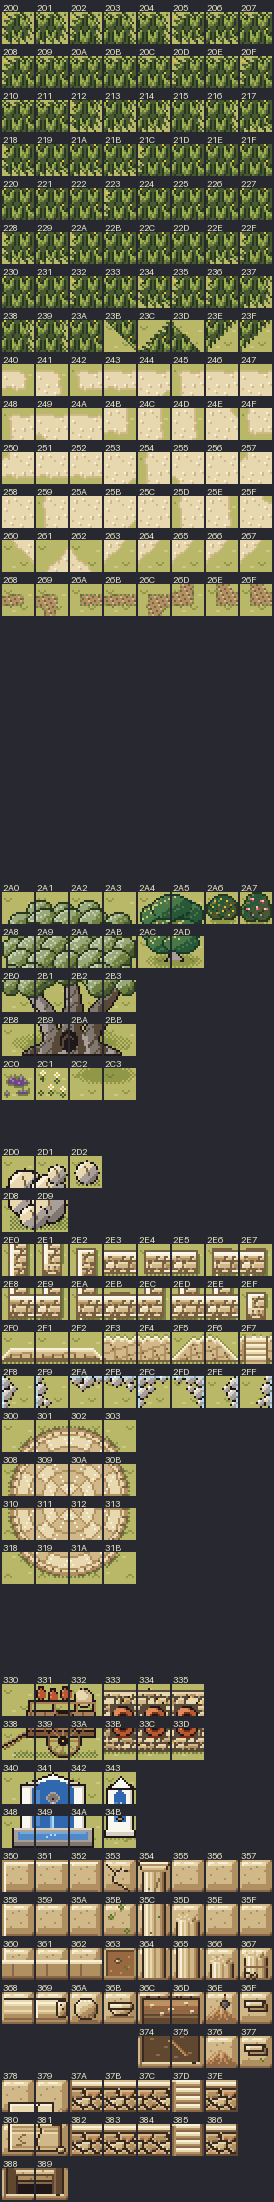
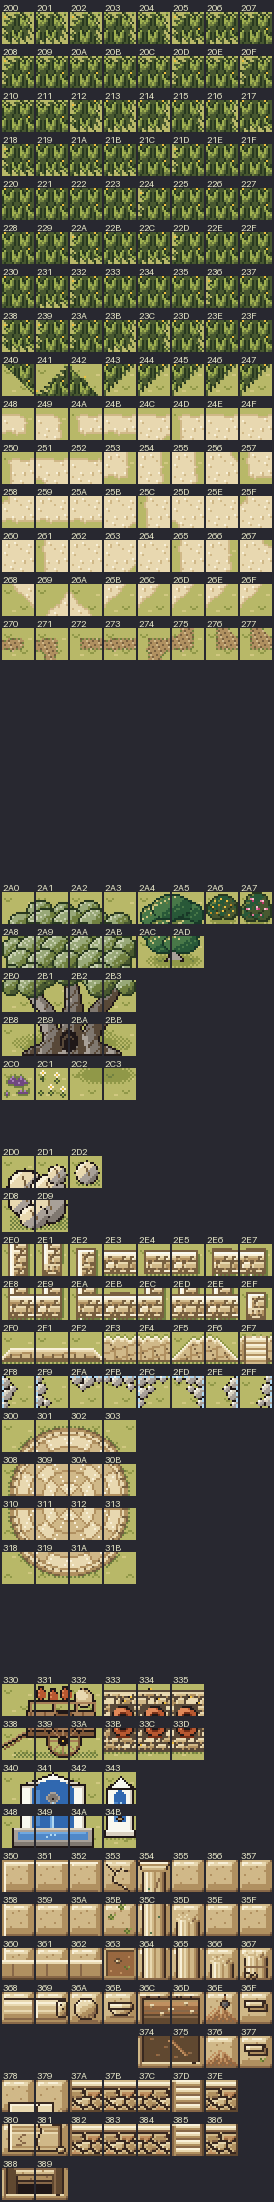
fix(map): keep Route 1's seam rows aethos-only and give its bands ragged edges
The Elaia opening test showed Route 1's band of grass as garbage from
Elaia's side: the screen shows four and a half rows past the player and a
step scrolls in one more before the map switches, so six rows at each seam
now hold aethos pieces only (plain barley where a band reaches them). The
cove's shore grass gets ragged edges, the meadow a few more things to look
at, and the wayside shrine moves onto the goat path, out of Akti's view.
Review screens now frame the player half a row down, as the game does.

diff --git a/tools/ichor/maps/route1.py b/tools/ichor/maps/route1.py
@@ -170,14 +170,14 @@ class Grid:
         self.protect = set()
 
     # --- composition passes ------------------------------------------------
-    SEAM_SWAP = {",": ".", "h": ".", "y": ".", "b": "B", "n": "B", "r": "B", "q": "~"}
+    SEAM_SWAP = {"h": ".", "y": ".", "b": "B", "n": "B", "r": "B", "q": "~"}
 
     def seam_prep(self):
         """In the seam rows, swap what only Agros can draw for aethos's own:
-        tall grass and herbs become grass, shrubs and rocks become boulders, the
-        rocky shore becomes open sea. Woods there fill with olives, stone pines,
-        cypresses and boulders only, and the road takes aethos's square-edged
-        path patch (soft_ground)."""
+        herbs become grass, shrubs and rocks become boulders, the rocky shore
+        becomes open sea. Woods there fill with olives, stone pines, cypresses
+        and boulders only; tall grass takes aethos's plain barley and the road
+        aethos's square-edged path patch (soft_ground)."""
         for y in self.seam_rows:
             for x in range(self.w):
                 c = self.chars[y][x]
@@ -436,6 +436,8 @@ class Grid:
         self.find_halves()
         out = {"tall": set(), "path": set(), "track": set()}
         for y in range(self.h):
+            if y in self.seam_rows:
+                continue                    # aethos's own pieces there (soft_ground)
             for x in range(self.w):
                 c, h = self.chars[y][x], self.half.get((x, y))
                 if c == "," or (h and h[0] == "tall"):
@@ -576,7 +578,7 @@ class Grid:
                 if not kind:
                     continue
                 if y in self.seam_rows:
-                    self.put(x, y, walk(self.aethos_path(x, y)))
+                    self.put(x, y, walk(TALL if kind == "tall" else self.aethos_path(x, y)))
                     continue
                 if kind == "track":
                     key = self.track_key(x, y)
@@ -740,9 +742,9 @@ class Grid:
 #   the fork: a herm, the spur east to Kronion Hill past Polyeidos
 #   the flock in the wall gap, Agis just past it
 #   shore grass across the cove (band 3, 3 deep); a jar on the beach
-#   the climb: steps up to the headland, a shrine, the north herm; a goat
-#     path of two lips behind the hedge makes the trip back quick
-# Rows 0-4 and 59-63 are seen from Akti and Elaia, which draw them with their
+#   the climb: steps up to the headland and the north herm; a goat path of
+#     two lips behind the hedge, past a wayside shrine, makes the trip back quick
+# Rows 0-5 and 58-63 are seen from Akti and Elaia, which draw them with their
 # own secondary tileset, so they hold aethos pieces only (Grid.seam_prep).
 # ---------------------------------------------------------------------------
 ROUTE1 = [
@@ -753,14 +755,14 @@ ROUTE1 = [
     "%%%%%%....====.....%%%%%%%%%%%",  # 2  Akti's outskirts on the headland
     "%%%%%.*...====..H...%%%%%%%%%%",  # 3  north herm
     "~ddd...*..====......%%%%%%%%%%",  # 4
-    "~~ddd.....====......#.%%%%%%%%",  # 5  a roadside shrine between cypresses
-    "~~~dd.....====......#.%%%%%%%%",  # 6
+    "~~ddd.....====........%%%%%%%%",  # 5  cypresses on the headland
+    "~~~dd.....====........%%%%%%%%",  # 6
     "~~~~TTTTTTssssTT___TTT%%%%%%%%",  # 7  the climb: steps up to the headland; a lip down the goat path
-    "~~~~dd....====.%...%%%%%%%%%%%",  # 8  the goat path runs down behind the hedge
-    "~~~~,,,,,,,,,,,%...%%%%%%%%%%%",  # 9  shore grass, from the sea to the hedge (band 3)
-    "~~~~~,,,,,,,,,,%...%%%%%%%%%%%",  # 10
+    "~~~~dd,,..====.%...%%%%%%%%%%%",  # 8  the goat path runs down behind the hedge
+    "~~~~,,,,,,,,,,,%..#%%%%%%%%%%%",  # 9  shore grass, from the sea to the hedge (band 3);
+    "~~~~~,,,,,,,,,,%..#%%%%%%%%%%%",  # 10 a wayside shrine on the goat path
     "~~~~,,,,,,,,,,,%.y.%%%%%%%%%%%",  # 11
-    "~~~~dd....====.%___%%%%%%%%%%%",  # 12 the goat path's last lip
+    "~~~~dd.,,,====.%___%%%%%%%%%%%",  # 12 the goat path's last lip
     "~~~ddd.....===.....%%%%%%%%%%%",  # 13 Agis watches the gap; a jar on the cove beach
     "%%WWBWWWWWW===WWWWWWWB%%%%%%%%",  # 14 the flock's wall gap
     "%%.,,,.....===.....###%%%%%%%%",  # 15 Amaryllis; the fallen column
@@ -790,14 +792,14 @@ ROUTE1 = [
     "%%......%,,,,,,%%%%%%%%%%%%%%%",  # 39
     "%%..,...%%,,,,,%%%%%%%%%%%%%%%",  # 40
     "%%______%%===..............%%%",  # 41 the west walk's lip down to the meadow
-    "%%..,,,...===....,,,.........%",  # 42 the shepherd's meadow
+    "%%..,,,...===....,,,..h......%",  # 42 the shepherd's meadow
     "%%.,,,,...===...,,,,.....,...%",  # 43
-    "%%..,,,..===......####.......%",  # 44 the threshing floor
+    "%%..,,,..===......####..*....%",  # 44 the threshing floor
     "%%.,,,...===..----####.......%",  # 45
     "%%..,....===---...####.....*.%",  # 46
-    "%%.......===......####.......%",  # 47
+    "%%.......===......####B......%",  # 47
     "%%..*....===..h............,.%",  # 48
-    "%%.......===........,,,......%",  # 49 Tityros at the wall gap
+    "%%.......===.*......,,,....h.%",  # 49 Tityros at the wall gap
     "%%WWWWWWW===WWWWWWWW_______W%%",  # 50 the meadow wall; a lip back down
     "%%.,,,,..===.................%",  # 51
     "%%WWWWW..===...........B.....%",  # 52 youth on the wall
@@ -827,9 +829,10 @@ ROUTE1_OLIVES = [
 # An olive's crown needs grass, another olive or a cypress foot above it (see
 # settle_crowns), so none sits right under the road, a wall, a lip or a pine.
 ROUTE1_CYPRESSES = [(7, 2), (19, 5), (21, 5), (21, 20), (10, 36), (15, 42), (7, 54)]
-# Rows seen from Akti (0-4: five rows below a player on Akti's edge) and from
-# Elaia (59-63: four above a player on Elaia's edge, plus one for a camera pan).
-ROUTE1_SEAM_ROWS = list(range(0, 5)) + list(range(59, 64))
+# Rows a player still in Akti or Elaia can see: the screen shows four and a
+# half rows either side of the player's tile, and a step scrolls one more in
+# before the map switches. So six rows each side stay aethos-only.
+ROUTE1_SEAM_ROWS = list(range(0, 6)) + list(range(58, 64))
 # The forced bands' rows, kept out of roughen() so each keeps its full depth.
 ROUTE1_BAND_ROWS = [9, 10, 11, 38, 39, 40, 57, 58]
 ROUTE1_PINES = [(21, 55), (26, 55)]
@@ -879,7 +882,7 @@ def build_route1_pieces(g, cat):
     g.place(cat, "big_olive", 3, 22)                  # the ancient olive
     g.place(cat, "bee_wall", 22, 24)                  # Komatas's hives
     g.place(cat, "spring", 2, 32)                     # the spring in the grove
-    g.place(cat, "shrine", 20, 5)                     # the shrine on the headland, by the goat path
+    g.place(cat, "shrine", 18, 9)                     # the wayside shrine on the goat path
     g.place(cat, "alonia", 18, 44)                    # the threshing floor
     g.place(cat, "cart", 18, 53)                      # the carter's cart
 
@@ -1282,7 +1285,8 @@ def render(g, name, events, border, views, rows=None):
             d.text((2, i * cell + cell // 2 - 6), str(i), fill=(255, 255, 255, 255), font=font, stroke_width=2, stroke_fill=(0, 0, 0, 255))
     Image.alpha_composite(rev, over).convert("RGB").save(RENDER / f"{name}_review.png")
 
-    # Screens: the GBA shows 15x10 tiles with the player at column 7, row 4.
+    # Screens: the GBA shows 15x10 tiles, the player's tile at column 7 and
+    # half a row down from row 4 (pixels 72-87), as in-game shots show.
     pad = 8
     H = blocks.shape[0]
     W, HH = g.w + 2 * pad, H + 2 * pad
@@ -1294,7 +1298,7 @@ def render(g, name, events, border, views, rows=None):
     full = rm.render_blocks(r, big.ravel(), W)
     shots = []
     for (px, py) in views:
-        x0, y0 = (px - 7 + pad) * 16, (py - 4 + pad) * 16
+        x0, y0 = (px - 7 + pad) * 16, (py - 5 + pad) * 16 + 8
         shots.append(full.crop((x0, y0, x0 + 240, y0 + 160)).resize((480, 320), Image.NEAREST))
     cols = 3
     nrows = (len(shots) + cols - 1) // cols

diff --git a/tools/ichor/art/agros_catalog.py b/tools/ichor/art/agros_catalog.py
@@ -111,7 +111,7 @@ palette:
 
 **Scripted swaps.** `agros_build.py` writes the ids scripts swap in to the `gTileset_Agros` block at the end of `include/constants/metatile_labels.h` (today `METATILE_Agros_PitStair_Left` and `_Right`, Kronion Hill's dark stair), so they never go stale.
 
-**Seams.** A map connected to another is drawn with the tilesets of the map the player stands on. So the rows of Route 1 a player in Akti or Elaia can see (0–4 and 59–63) use aethos pieces only; `route1.py` swaps in aethos's own and fails the build on any Agros piece there. A future map on Agros should do the same at its seams.
+**Seams.** A map connected to another is drawn with the tilesets of the map the player stands on. So the rows of Route 1 a player in Akti or Elaia can see (0–5 and 58–63) use aethos pieces only; `route1.py` swaps in aethos's own and fails the build on any Agros piece there. A future map on Agros should do the same at its seams.
 """
 
 

diff --git a/design/phase1/TILES_agros.md b/design/phase1/TILES_agros.md
@@ -81,7 +81,7 @@ palette:
 
 **Scripted swaps.** `agros_build.py` writes the ids scripts swap in to the `gTileset_Agros` block at the end of `include/constants/metatile_labels.h` (today `METATILE_Agros_PitStair_Left` and `_Right`, Kronion Hill's dark stair), so they never go stale.
 
-**Seams.** A map connected to another is drawn with the tilesets of the map the player stands on. So the rows of Route 1 a player in Akti or Elaia can see (0–4 and 59–63) use aethos pieces only; `route1.py` swaps in aethos's own and fails the build on any Agros piece there. A future map on Agros should do the same at its seams.
+**Seams.** A map connected to another is drawn with the tilesets of the map the player stands on. So the rows of Route 1 a player in Akti or Elaia can see (0–5 and 58–63) use aethos pieces only; `route1.py` swaps in aethos's own and fails the build on any Agros piece there. A future map on Agros should do the same at its seams.
 
 ## Soft ground
 
@@ -89,7 +89,7 @@ Tall grass, the road and goat tracks, with edges that follow the land instead of
 
 ### Tall grass with soft edges
 
-`tall`, 8 wide by 8 tall. Barley meadow edges. Each piece is named by its shape key (see agros_ground.py) and keeps MB_TALL_GRASS, so encounters follow the cells while the outline stays soft.
+`tall`, 8 wide by 9 tall. Barley meadow edges. Each piece is named by its shape key (see agros_ground.py) and keeps MB_TALL_GRASS, so encounters follow the cells while the outline stays soft.
 
 | Shape key | Id | Walk |
 |---|---|---|
@@ -121,41 +121,46 @@ Tall grass, the road and goat tracks, with edges that follow the land instead of
 | `1|11100010` | 0x219 | G |
 | `1|11100011` | 0x21A | G |
 | `1|111000a1` | 0x21B | G |
-| `1|11111000` | 0x21C | G |
-| `1|11111011` | 0x21D | G |
-| `1|111110a1` | 0x21E | G |
-| `1|11111110` | 0x21F | G |
-| `1|1111111b` | 0x220 | G |
-| `1|111111b0` | 0x221 | G |
-| `1|11111a11` | 0x222 | G |
-| `1|1111a000` | 0x223 | G |
-| `1|1111a011` | 0x224 | G |
-| `1|111d10a1` | 0x225 | G |
-| `1|111d1111` | 0x226 | G |
-| `1|111d1a1b` | 0x227 | G |
-| `1|11d00000` | 0x228 | G |
-| `1|11d00011` | 0x229 | G |
-| `1|11d01000` | 0x22A | G |
-| `1|11d010a1` | 0x22B | G |
-| `1|11d01111` | 0x22C | G |
-| `1|11d0d111` | 0x22D | G |
-| `1|1c10001b` | 0x22E | G |
-| `1|1c101000` | 0x22F | G |
-| `1|1c101111` | 0x230 | G |
-| `1|1c111111` | 0x231 | G |
-| `1|1c1d1000` | 0x232 | G |
-| `1|1c1d1111` | 0x233 | G |
-| `1|b1100000` | 0x234 | G |
-| `1|b1111000` | 0x235 | G |
-| `1|b111a000` | 0x236 | G |
-| `1|c0000011` | 0x237 | G |
-| `1|c0001111` | 0x238 | G |
-| `1|c000d111` | 0x239 | G |
-| `1|c0c11111` | 0x23A | G |
-| `a|11100000` | 0x23B | G |
-| `b|00111000` | 0x23C | G |
-| `c|00001110` | 0x23D | G |
-| `d|10000011` | 0x23E | G |
+| `1|1110d111` | 0x21C | G |
+| `1|11111000` | 0x21D | G |
+| `1|11111011` | 0x21E | G |
+| `1|111110a1` | 0x21F | G |
+| `1|11111110` | 0x220 | G |
+| `1|1111111b` | 0x221 | G |
+| `1|111111b0` | 0x222 | G |
+| `1|11111a11` | 0x223 | G |
+| `1|1111a000` | 0x224 | G |
+| `1|1111a011` | 0x225 | G |
+| `1|111d10a1` | 0x226 | G |
+| `1|111d1111` | 0x227 | G |
+| `1|111d1a11` | 0x228 | G |
+| `1|111d1a1b` | 0x229 | G |
+| `1|11d00000` | 0x22A | G |
+| `1|11d00011` | 0x22B | G |
+| `1|11d000a1` | 0x22C | G |
+| `1|11d01000` | 0x22D | G |
+| `1|11d010a1` | 0x22E | G |
+| `1|11d01111` | 0x22F | G |
+| `1|11d0d111` | 0x230 | G |
+| `1|1c10001b` | 0x231 | G |
+| `1|1c101000` | 0x232 | G |
+| `1|1c101111` | 0x233 | G |
+| `1|1c111110` | 0x234 | G |
+| `1|1c111111` | 0x235 | G |
+| `1|1c1d1000` | 0x236 | G |
+| `1|1c1d1111` | 0x237 | G |
+| `1|b1100000` | 0x238 | G |
+| `1|b1111000` | 0x239 | G |
+| `1|b111a000` | 0x23A | G |
+| `1|c0000011` | 0x23B | G |
+| `1|c0001111` | 0x23C | G |
+| `1|c000d111` | 0x23D | G |
+| `1|c0111111` | 0x23E | G |
+| `1|c0c11111` | 0x23F | G |
+| `a|11100000` | 0x240 | G |
+| `b|00111000` | 0x241 | G |
+| `c|00001110` | 0x242 | G |
+| `d|10000011` | 0x243 | G |
 
 ### The limestone road, curving
 
@@ -163,42 +168,42 @@ Tall grass, the road and goat tracks, with edges that follow the land instead of
 
 | Shape key | Id | Walk |
 |---|---|---|
-| `1|00000010` | 0x240 | . |
-| `1|00001110` | 0x241 | . |
-| `1|00100000` | 0x242 | . |
-| `1|00100010` | 0x243 | . |
-| `1|00101110` | 0x244 | . |
-| `1|00111000` | 0x245 | . |
-| `1|00111110` | 0x246 | . |
-| `1|00111a10` | 0x247 | . |
-| `1|0011a000` | 0x248 | . |
-| `1|0011a010` | 0x249 | . |
-| `1|00c11110` | 0x24A | . |
-| `1|10000011` | 0x24B | . |
-| `1|10001111` | 0x24C | . |
-| `1|1000d111` | 0x24D | . |
-| `1|10c11111` | 0x24E | . |
-| `1|11100000` | 0x24F | . |
-| `1|11100010` | 0x250 | . |
-| `1|11100011` | 0x251 | . |
-| `1|111000a1` | 0x252 | . |
-| `1|11101111` | 0x253 | . |
-| `1|11111000` | 0x254 | . |
-| `1|111110a1` | 0x255 | . |
-| `1|1111111b` | 0x256 | . |
-| `1|111111b0` | 0x257 | . |
-| `1|11111a11` | 0x258 | . |
-| `1|1111a000` | 0x259 | . |
-| `1|111d1111` | 0x25A | . |
-| `1|11d01111` | 0x25B | . |
-| `1|1c111111` | 0x25C | . |
-| `1|b1111000` | 0x25D | . |
-| `1|c0001111` | 0x25E | . |
-| `1|c0111111` | 0x25F | . |
-| `a|11100000` | 0x260 | . |
-| `b|00111000` | 0x261 | . |
-| `c|00001110` | 0x262 | . |
-| `d|10000011` | 0x263 | . |
+| `1|00000010` | 0x248 | . |
+| `1|00001110` | 0x249 | . |
+| `1|00100000` | 0x24A | . |
+| `1|00100010` | 0x24B | . |
+| `1|00101110` | 0x24C | . |
+| `1|00111000` | 0x24D | . |
+| `1|00111110` | 0x24E | . |
+| `1|00111a10` | 0x24F | . |
+| `1|0011a000` | 0x250 | . |
+| `1|0011a010` | 0x251 | . |
+| `1|00c11110` | 0x252 | . |
+| `1|10000011` | 0x253 | . |
+| `1|10001111` | 0x254 | . |
+| `1|1000d111` | 0x255 | . |
+| `1|10c11111` | 0x256 | . |
+| `1|11100000` | 0x257 | . |
+| `1|11100010` | 0x258 | . |
+| `1|11100011` | 0x259 | . |
+| `1|111000a1` | 0x25A | . |
+| `1|11101111` | 0x25B | . |
+| `1|11111000` | 0x25C | . |
+| `1|111110a1` | 0x25D | . |
+| `1|1111111b` | 0x25E | . |
+| `1|111111b0` | 0x25F | . |
+| `1|11111a11` | 0x260 | . |
+| `1|1111a000` | 0x261 | . |
+| `1|111d1111` | 0x262 | . |
+| `1|11d01111` | 0x263 | . |
+| `1|1c111111` | 0x264 | . |
+| `1|b1111000` | 0x265 | . |
+| `1|c0001111` | 0x266 | . |
+| `1|c0111111` | 0x267 | . |
+| `a|11100000` | 0x268 | . |
+| `b|00111000` | 0x269 | . |
+| `c|00001110` | 0x26A | . |
+| `d|10000011` | 0x26B | . |
 
 ### Goat track
 
@@ -206,13 +211,13 @@ Tall grass, the road and goat tracks, with edges that follow the land instead of
 
 | Shape key | Id | Walk |
 |---|---|---|
-| `1|00000010` | 0x268 | . |
-| `1|00001010` | 0x269 | . |
-| `1|00100000` | 0x26A | . |
-| `1|00100010` | 0x26B | . |
-| `1|00101000` | 0x26C | . |
-| `1|10000010` | 0x26D | . |
-| `1|10100000` | 0x26E | . |
+| `1|00000010` | 0x270 | . |
+| `1|00001010` | 0x271 | . |
+| `1|00100000` | 0x272 | . |
+| `1|00100010` | 0x273 | . |
+| `1|00101000` | 0x274 | . |
+| `1|10000010` | 0x275 | . |
+| `1|10100000` | 0x276 | . |
 
 ## Trees, shrubs and herbs
 
